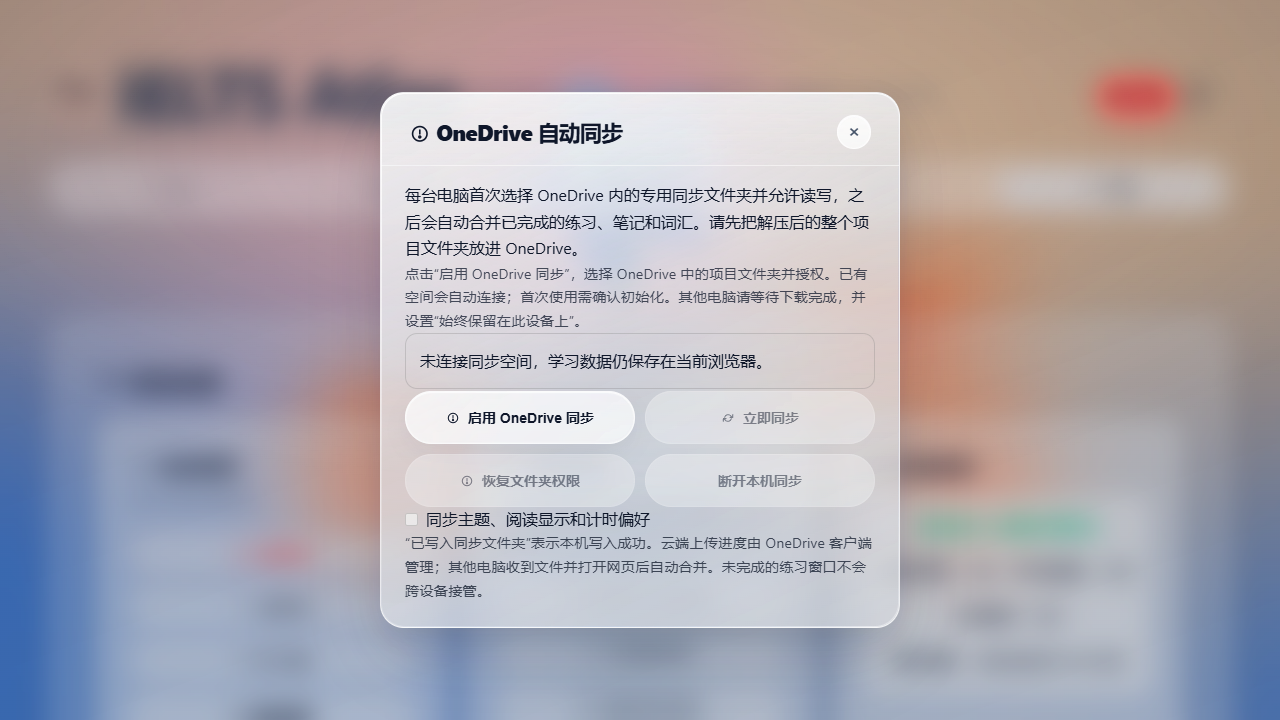
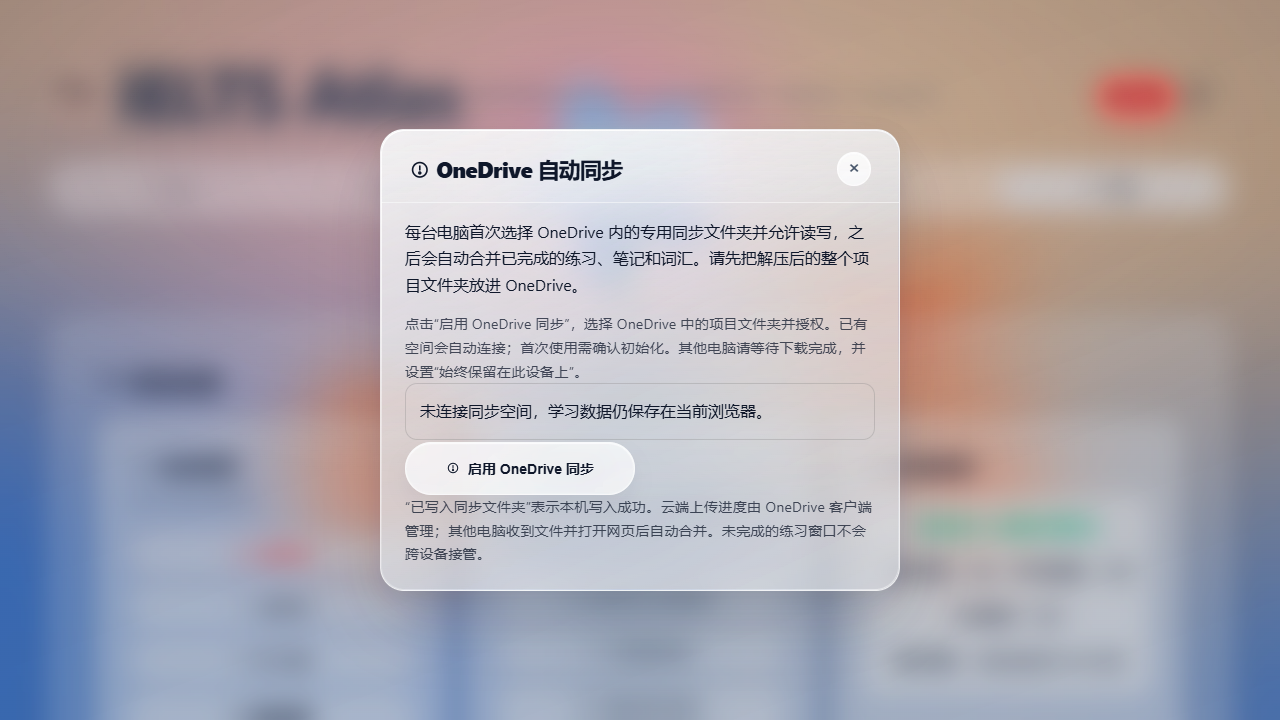
fix(sync): show recovery only when folder access needs renewal

Changed region(s): [[0.2812, 0.1222, 0.7188, 0.8861]]

diff --git a/developer/tests/e2e/folderSyncBackend.node.js b/developer/tests/e2e/folderSyncBackend.node.js
@@ -31,7 +31,9 @@ test('backend HTTP entry serves a working opt-in folder-sync UI and publishes lo
         const page = await context.newPage(); page.on('dialog', dialog => dialog.accept());
         await page.addInitScript(() => {
             // Substitute only the user chooser, using an isolated real directory handle.
+            window.__pickerCalls = 0;
             window.showDirectoryPicker = async () => {
+                    window.__pickerCalls++;
                     const dir = await navigator.storage.getDirectory();
                     for (const name of ['index.html', 'ONEDRIVE_SYNC.md']) await dir.getFileHandle(name, { create: true });
                     for (const name of ['js', 'css']) await dir.getDirectoryHandle(name, { create: true });
@@ -47,6 +49,10 @@ test('backend HTTP entry serves a working opt-in folder-sync UI and publishes lo
         await page.locator('button[data-view="settings"]').click();
         await page.locator('#folder-sync-entry-btn').click();
         assert(await page.locator('#folder-sync-modal').isVisible());
+        assert(await page.locator('#folder-sync-enable-btn').isVisible());
+        assert(!(await page.locator('#folder-sync-sync-btn').isVisible()));
+        assert(!(await page.locator('#folder-sync-disconnect-btn').isVisible()));
+        assert(!(await page.locator('#folder-sync-permission-btn').isVisible()), 'unbound browsers have no recovery action');
         assert.equal((await page.request.get(base + '/css/folder-sync.css')).status(), 200);
         if (process.env.ONEDRIVE_SYNC_SCREENSHOT) {
             await page.screenshot({ path: path.resolve(process.env.ONEDRIVE_SYNC_SCREENSHOT) });
@@ -56,6 +62,11 @@ test('backend HTTP entry serves a working opt-in folder-sync UI and publishes lo
             const status = FolderSyncService.getStatus();
             return status.enabled && status.permission === 'granted' && !status.busy && !status.pending;
         });
+        assert(!(await page.locator('#folder-sync-enable-btn').isVisible()));
+        assert(!(await page.locator('#folder-sync-permission-btn').isVisible()));
+        assert(!(await page.locator('#folder-sync-setup-guide').isVisible()));
+        assert((await page.locator('.folder-sync-status').textContent()).includes('自动同步已开启'));
+        assert(await page.locator('#folder-sync-preferences').isEnabled());
         const previousPublish = await page.evaluate(() => FolderSyncService.getStatus().lastPublishAt);
         await page.evaluate(() => AppData.practice.completeAttempt({ operationId: 'backend-folder-record', record: {
             id: 'backend-folder-record', type: 'reading', examId: 'test-exam', title: 'Synthetic folder-sync record',
@@ -77,6 +88,56 @@ test('backend HTTP entry serves a working opt-in folder-sync UI and publishes lo
             return found;
         });
         assert(published, 'a commit made on the backend-served page should publish without syncNow');
+        const originalSpace = await page.evaluate(async () => (await SyncFolderAdapter.binding()).spaceId);
+        await page.evaluate(async () => {
+            // Simulate browser permission loss only. Worker, stored binding, queue and file writes remain real.
+            window.__permission = 'prompt'; window.__permissionRequests = 0;
+            FileSystemDirectoryHandle.prototype.queryPermission = async () => window.__permission;
+            FileSystemDirectoryHandle.prototype.requestPermission = async () => {
+                window.__permissionRequests++;
+                return window.__grantRestore ? (window.__permission = 'granted') : 'denied';
+            };
+            await FolderSyncService.syncNow();
+            await AppData.practice.completeAttempt({ operationId: 'paused-record', record: {
+                id: 'paused-record', type: 'reading', examId: 'test-exam', title: 'Queued while paused',
+                totalQuestions: 1, correctAnswers: 1, answers: { 1: 'yes' }
+            } });
+            await FolderSyncService.syncNow();
+        });
+        assert(await page.locator('#folder-sync-permission-btn').isVisible());
+        assert((await page.locator('#folder-sync-permission-btn').textContent()).includes('恢复同步'));
+        assert(!(await page.locator('#folder-sync-enable-btn').isVisible()));
+        assert(!(await page.locator('#folder-sync-sync-btn').isEnabled()));
+        assert((await page.locator('.folder-sync-status').textContent()).includes('同步已暂停'));
+        assert((await page.locator('#folder-sync-banner-copy').textContent()).includes('恢复同步'));
+        const queued = await page.evaluate(() => AppData.folderSync.pending());
+        assert(queued.some(op => op.changes.some(change => change.key === 'practice/paused-record')));
+        await page.locator('#folder-sync-permission-btn').click();
+        await page.waitForFunction(() => window.__permissionRequests === 1 && !document.getElementById('folder-sync-permission-btn').disabled);
+        assert(await page.locator('#folder-sync-permission-btn').isVisible(), 'denial keeps recovery available');
+        assert.equal((await page.evaluate(() => AppData.folderSync.pending())).length, queued.length);
+        await page.evaluate(() => { window.__grantRestore = true; });
+        await page.locator('#folder-sync-permission-btn').click();
+        await page.waitForFunction(() => {
+            const status = FolderSyncService.getStatus();
+            return status.permission === 'granted' && !status.busy && !status.pending;
+        });
+        assert(!(await page.locator('#folder-sync-permission-btn').isVisible()));
+        assert((await page.locator('.folder-sync-status').textContent()).includes('自动同步已开启'));
+        assert(await page.locator('#folder-sync-sync-btn').isEnabled());
+        assert.equal(await page.locator('#folder-sync-banner').count(), 0);
+        assert.equal(await page.evaluate(() => window.__pickerCalls), 1, 'restore reuses the bound folder');
+        assert.equal(await page.evaluate(async () => (await SyncFolderAdapter.binding()).spaceId), originalSpace);
+        await page.locator('#folder-sync-disconnect-btn').click();
+        await page.waitForFunction(() => !FolderSyncService.getStatus().bound);
+        assert(await page.locator('#folder-sync-enable-btn').isVisible());
+        assert(await page.locator('#folder-sync-setup-guide').isVisible());
+        assert(!(await page.locator('#folder-sync-permission-btn').isVisible()));
+        assert(await page.evaluate(() => AppData.practice.get('paused-record')));
+        await page.locator('#folder-sync-enable-btn').click();
+        await page.waitForFunction(() => FolderSyncService.getStatus().bound && !FolderSyncService.getStatus().busy);
+        assert.equal(await page.evaluate(async () => (await SyncFolderAdapter.binding()).spaceId), originalSpace);
+        assert(!(await page.locator('#folder-sync-permission-btn').isVisible()));
         assert.equal((await page.request.get(base + '/user-data/workspace.json')).status(), 404);
     } finally {
         if (browser) await browser.close();

diff --git a/js/bundles/core-foundation.bundle.js b/js/bundles/core-foundation.bundle.js
@@ -7706,7 +7706,7 @@
     'use strict';
     if (!global.document || !global.FolderSyncService) return;
     const service = global.FolderSyncService, doc = global.document;
-    let modal = null, statusLine, conflictList, errorLine, preferences, versionSignature = '';
+    let modal = null, statusLine, conflictList, errorLine, preferences, setupGuide, versionSignature = '';
     const buttons = {};
     function element(tag, text, className) {
         const node = doc.createElement(tag);
@@ -7740,8 +7740,10 @@
         close.addEventListener('click', () => modal.classList.remove('show'));
         header.append(title, close);
         const body = element('div', '', 'theme-modal-body shui-secondary-modal__body folder-sync-body');
-        body.append(element('p', '每台电脑首次选择 OneDrive 内的专用同步文件夹并允许读写，之后会自动合并已完成的练习、笔记和词汇。请先把解压后的整个项目文件夹放进 OneDrive。'));
-        body.append(element('p', '点击“启用 OneDrive 同步”，选择 OneDrive 中的项目文件夹并授权。已有空间会自动连接；首次使用需确认初始化。其他电脑请等待下载完成，并设置“始终保留在此设备上”。', 'folder-sync-muted'));
+        setupGuide = element('div'); setupGuide.id = 'folder-sync-setup-guide';
+        setupGuide.append(element('p', '每台电脑首次选择 OneDrive 内的专用同步文件夹并允许读写，之后会自动合并已完成的练习、笔记和词汇。请先把解压后的整个项目文件夹放进 OneDrive。'));
+        setupGuide.append(element('p', '点击“启用 OneDrive 同步”，选择 OneDrive 中的项目文件夹并授权。已有空间会自动连接；首次使用需确认初始化。其他电脑请等待下载完成，并设置“始终保留在此设备上”。', 'folder-sync-muted'));
+        body.append(setupGuide);
         statusLine = element('p', '正在读取本机同步状态…', 'folder-sync-status');
         statusLine.setAttribute('role', 'status'); statusLine.setAttribute('aria-live', 'polite');
         body.append(statusLine);
@@ -7749,7 +7751,7 @@
         for (const [key, label, task] of [
             ['enable', '☁ 启用 OneDrive 同步', () => service.connect()],
             ['sync', '🔄 立即同步', () => service.syncNow()],
-            ['permission', '🔑 恢复文件夹权限', () => service.reauthorize()],
+            ['permission', '🔑 恢复同步', () => service.reauthorize()],
             ['disconnect', '断开本机同步', () => {
                 if (global.confirm('断开后保留本机记录和 OneDrive 文件，下次连接可继续同步。是否断开？')) return service.disconnect();
             }]
@@ -7779,9 +7781,9 @@
     function textStatus(status) {
         if (!status.supported) return '当前环境不支持自动文件夹同步。请使用桌面 Chrome / Edge；必要时通过固定 localhost 地址打开。';
         if (!status.enabled || !status.bound) return '未连接同步空间，学习数据仍保存在当前浏览器。';
-        if (status.permission !== 'granted') return '已连接 ' + status.directoryName + '，需要点击“恢复文件夹权限”才能继续读写。';
+        if (status.permission !== 'granted') return '同步已暂停，请点击“恢复同步”并重新授权。学习记录仍保存在本机。';
         if (status.busy) return '正在检查并合并同步文件…';
-        return '已连接 ' + status.directoryName + ' · 待发送 ' + status.pending + ' 条 · 待处理冲突 ' + status.conflicts.length
+        return '自动同步已开启 · ' + status.directoryName + ' · 待发送 ' + status.pending + ' 条 · 待处理冲突 ' + status.conflicts.length
             + ' 项\n最近写入文件夹：' + formatDate(status.lastPublishAt) + '\n最近接收：' + formatDate(status.lastReceiveAt);
     }
     function banner(status) {
@@ -7797,22 +7799,30 @@
             const open = element('button', '打开同步面板', 'btn app-global-banner__btn'); open.type = 'button'; open.addEventListener('click', openModal);
             node.append(copy, open); stack.append(node);
         }
-        doc.getElementById('folder-sync-banner-copy').textContent = status.permission !== 'granted' ? 'OneDrive 同步需要重新授权文件夹'
+        doc.getElementById('folder-sync-banner-copy').textContent = status.permission !== 'granted' ? 'OneDrive 同步已暂停，请打开同步面板恢复同步'
             : status.blocked.length ? 'OneDrive 同步有批量删除请求需要确认'
                 : status.conflicts.length ? 'OneDrive 同步有 ' + status.conflicts.length + ' 项内容需要选择版本' : 'OneDrive 同步遇到问题，本机记录仍保留';
     }
     function render(status) {
         const entry = doc.getElementById('folder-sync-entry-btn');
         if (entry) entry.textContent = !status.enabled || !status.bound ? '☁ OneDrive 自动同步'
-            : status.permission !== 'granted' ? '☁ OneDrive 同步 · 需授权'
-                : status.conflicts.length ? '☁ OneDrive 同步 · 有冲突' : status.pending ? '☁ OneDrive 同步 · 待发送' : '☁ OneDrive 同步 · 已连接';
+            : status.permission !== 'granted' ? '☁ OneDrive 同步 · 已暂停'
+                : status.conflicts.length ? '☁ OneDrive 同步 · 有冲突' : status.pending ? '☁ OneDrive 同步 · 待发送' : '☁ OneDrive 同步 · 已开启';
         banner(status);
         if (!modal) return;
         statusLine.textContent = textStatus(status);
         errorLine.textContent = status.errors.map(error => (error.path ? error.path + '：' : '') + error.message).slice(0, 5).join('\n');
+        const connected = status.enabled && status.bound;
+        const needsPermission = connected && status.permission !== 'granted';
+        setupGuide.hidden = connected;
+        buttons.enable.hidden = connected;
+        buttons.sync.hidden = buttons.disconnect.hidden = !connected;
+        preferences.parentElement.hidden = !connected;
+        buttons.permission.hidden = !needsPermission;
         buttons.enable.disabled = !status.supported || status.busy;
-        buttons.sync.disabled = buttons.disconnect.disabled = !status.enabled || !status.bound || status.busy;
-        buttons.permission.disabled = !status.bound || status.permission === 'granted' || status.busy;
+        buttons.sync.disabled = !connected || needsPermission || !status.supported || status.busy;
+        buttons.disconnect.disabled = !connected || status.busy;
+        buttons.permission.disabled = !status.supported || status.busy;
         preferences.disabled = !status.enabled || !status.bound || status.busy;
         preferences.checked = status.preferences === true;
         const signature = JSON.stringify([status.conflicts.map(item => [item.key, item.versions.map(version => version.id)]), status.blocked]);

diff --git a/js/presentation/syncPanel.js b/js/presentation/syncPanel.js
@@ -2,7 +2,7 @@
     'use strict';
     if (!global.document || !global.FolderSyncService) return;
     const service = global.FolderSyncService, doc = global.document;
-    let modal = null, statusLine, conflictList, errorLine, preferences, versionSignature = '';
+    let modal = null, statusLine, conflictList, errorLine, preferences, setupGuide, versionSignature = '';
     const buttons = {};
     function element(tag, text, className) {
         const node = doc.createElement(tag);
@@ -36,8 +36,10 @@
         close.addEventListener('click', () => modal.classList.remove('show'));
         header.append(title, close);
         const body = element('div', '', 'theme-modal-body shui-secondary-modal__body folder-sync-body');
-        body.append(element('p', '每台电脑首次选择 OneDrive 内的专用同步文件夹并允许读写，之后会自动合并已完成的练习、笔记和词汇。请先把解压后的整个项目文件夹放进 OneDrive。'));
-        body.append(element('p', '点击“启用 OneDrive 同步”，选择 OneDrive 中的项目文件夹并授权。已有空间会自动连接；首次使用需确认初始化。其他电脑请等待下载完成，并设置“始终保留在此设备上”。', 'folder-sync-muted'));
+        setupGuide = element('div'); setupGuide.id = 'folder-sync-setup-guide';
+        setupGuide.append(element('p', '每台电脑首次选择 OneDrive 内的专用同步文件夹并允许读写，之后会自动合并已完成的练习、笔记和词汇。请先把解压后的整个项目文件夹放进 OneDrive。'));
+        setupGuide.append(element('p', '点击“启用 OneDrive 同步”，选择 OneDrive 中的项目文件夹并授权。已有空间会自动连接；首次使用需确认初始化。其他电脑请等待下载完成，并设置“始终保留在此设备上”。', 'folder-sync-muted'));
+        body.append(setupGuide);
         statusLine = element('p', '正在读取本机同步状态…', 'folder-sync-status');
         statusLine.setAttribute('role', 'status'); statusLine.setAttribute('aria-live', 'polite');
         body.append(statusLine);
@@ -45,7 +47,7 @@
         for (const [key, label, task] of [
             ['enable', '☁ 启用 OneDrive 同步', () => service.connect()],
             ['sync', '🔄 立即同步', () => service.syncNow()],
-            ['permission', '🔑 恢复文件夹权限', () => service.reauthorize()],
+            ['permission', '🔑 恢复同步', () => service.reauthorize()],
             ['disconnect', '断开本机同步', () => {
                 if (global.confirm('断开后保留本机记录和 OneDrive 文件，下次连接可继续同步。是否断开？')) return service.disconnect();
             }]
@@ -75,9 +77,9 @@
     function textStatus(status) {
         if (!status.supported) return '当前环境不支持自动文件夹同步。请使用桌面 Chrome / Edge；必要时通过固定 localhost 地址打开。';
         if (!status.enabled || !status.bound) return '未连接同步空间，学习数据仍保存在当前浏览器。';
-        if (status.permission !== 'granted') return '已连接 ' + status.directoryName + '，需要点击“恢复文件夹权限”才能继续读写。';
+        if (status.permission !== 'granted') return '同步已暂停，请点击“恢复同步”并重新授权。学习记录仍保存在本机。';
         if (status.busy) return '正在检查并合并同步文件…';
-        return '已连接 ' + status.directoryName + ' · 待发送 ' + status.pending + ' 条 · 待处理冲突 ' + status.conflicts.length
+        return '自动同步已开启 · ' + status.directoryName + ' · 待发送 ' + status.pending + ' 条 · 待处理冲突 ' + status.conflicts.length
             + ' 项\n最近写入文件夹：' + formatDate(status.lastPublishAt) + '\n最近接收：' + formatDate(status.lastReceiveAt);
     }
     function banner(status) {
@@ -93,22 +95,30 @@
             const open = element('button', '打开同步面板', 'btn app-global-banner__btn'); open.type = 'button'; open.addEventListener('click', openModal);
             node.append(copy, open); stack.append(node);
         }
-        doc.getElementById('folder-sync-banner-copy').textContent = status.permission !== 'granted' ? 'OneDrive 同步需要重新授权文件夹'
+        doc.getElementById('folder-sync-banner-copy').textContent = status.permission !== 'granted' ? 'OneDrive 同步已暂停，请打开同步面板恢复同步'
             : status.blocked.length ? 'OneDrive 同步有批量删除请求需要确认'
                 : status.conflicts.length ? 'OneDrive 同步有 ' + status.conflicts.length + ' 项内容需要选择版本' : 'OneDrive 同步遇到问题，本机记录仍保留';
     }
     function render(status) {
         const entry = doc.getElementById('folder-sync-entry-btn');
         if (entry) entry.textContent = !status.enabled || !status.bound ? '☁ OneDrive 自动同步'
-            : status.permission !== 'granted' ? '☁ OneDrive 同步 · 需授权'
-                : status.conflicts.length ? '☁ OneDrive 同步 · 有冲突' : status.pending ? '☁ OneDrive 同步 · 待发送' : '☁ OneDrive 同步 · 已连接';
+            : status.permission !== 'granted' ? '☁ OneDrive 同步 · 已暂停'
+                : status.conflicts.length ? '☁ OneDrive 同步 · 有冲突' : status.pending ? '☁ OneDrive 同步 · 待发送' : '☁ OneDrive 同步 · 已开启';
         banner(status);
         if (!modal) return;
         statusLine.textContent = textStatus(status);
         errorLine.textContent = status.errors.map(error => (error.path ? error.path + '：' : '') + error.message).slice(0, 5).join('\n');
+        const connected = status.enabled && status.bound;
+        const needsPermission = connected && status.permission !== 'granted';
+        setupGuide.hidden = connected;
+        buttons.enable.hidden = connected;
+        buttons.sync.hidden = buttons.disconnect.hidden = !connected;
+        preferences.parentElement.hidden = !connected;
+        buttons.permission.hidden = !needsPermission;
         buttons.enable.disabled = !status.supported || status.busy;
-        buttons.sync.disabled = buttons.disconnect.disabled = !status.enabled || !status.bound || status.busy;
-        buttons.permission.disabled = !status.bound || status.permission === 'granted' || status.busy;
+        buttons.sync.disabled = !connected || needsPermission || !status.supported || status.busy;
+        buttons.disconnect.disabled = !connected || status.busy;
+        buttons.permission.disabled = !status.supported || status.busy;
         preferences.disabled = !status.enabled || !status.bound || status.busy;
         preferences.checked = status.preferences === true;
         const signature = JSON.stringify([status.conflicts.map(item => [item.key, item.versions.map(version => version.id)]), status.blocked]);

diff --git a/css/folder-sync.css b/css/folder-sync.css
@@ -9,3 +9,5 @@
 .folder-sync-conflict details { padding: 10px 0; }
 .folder-sync-conflict summary { cursor: pointer; }
 .folder-sync-conflict pre { max-height: 240px; overflow: auto; white-space: pre-wrap; overflow-wrap: anywhere; font-size: .8rem; }
+.folder-sync-modal [hidden] { display: none !important; }
+#folder-sync-setup-guide { display: grid; gap: 14px; }

diff --git a/developer/doc/OneDrive-Sync-Verification.md b/developer/doc/OneDrive-Sync-Verification.md
@@ -46,6 +46,14 @@ The five added browser regression tests cover:
 
 Permission restoration is exercised through reauthorize with an origin-private handle. Real permission prompts and OneDrive transfer remain manual cases. The panel screenshot was regenerated from the production backend-served page. Evidence is saved locally in ignored developer/doc/onedrive-sync-review-{all,focused,backend,http,build,bundle-check}.log files.
 
+## Permission recovery interaction update
+
+The panel now shows only **启用 OneDrive 同步** before setup. Connected, authorized browsers see **自动同步已开启** with sync/disconnect/preferences controls and no setup/recovery button. When permission expires, **同步已暂停** and **恢复同步** appear; immediate sync is disabled until access is restored. Disconnect returns to setup. Conflict and bulk-deletion controls remain available.
+
+The production backend browser test now verifies these real rendered states, denies one simulated browser permission request (queue retained), grants the next request (queue drains automatically), verifies that recovery does not reopen the directory picker or change the space ID, and disconnects/reconnects without losing the practice record. Only the browser permission results and directory chooser are substituted; production service, IndexedDB and file writing code execute unchanged. The initial panel screenshot was regenerated and visually inspected.
+
+Rerun commands use the existing dependency lockfiles: frontend suite (121 tests including 21 sync tests), focused sync, backend (5 tests), production HTTP browser integration (1 extended test), bundle build/check and git diff check. Local evidence is saved in ignored developer/doc/onedrive-sync-ui-*.log files. No dependency, storage protocol, data-write barrier or backend API changes are included in this UI update.
+
 ## Pending external validation
 
 Real OneDrive upload/download, two physical computers, Files On-Demand and actual directory reauthorization still require [manual acceptance](OneDrive-Sync-Manual-Test.md). No personal browser database or OneDrive account was used.

diff --git a/ONEDRIVE_SYNC.md b/ONEDRIVE_SYNC.md
@@ -19,7 +19,7 @@ This feature is built on `feature/multi-device-easy-deploy`. It adds an opt-in d
 
 An existing `user-data` directory without a valid marker, empty/truncated markers and incompatible versions stop connection without creating a replacement. A project missing required root files cannot be initialized. If a sync directory arrives during confirmation, it is inspected again. A browser that has already used a space cannot initialize a different one through this entry. The browser cannot inspect OneDrive cloud status: if the entire sync directory has not arrived, cancel the initialization prompt and wait for the client. Never manually create or edit internal JSON files.
 
-Every computer needs an initial grant. If permission expires, use **恢复文件夹权限**. When direct `file://` directory access is unavailable, use a fixed localhost address. Browser, origin, protocol and port changes can select a different local database; export from the old entry and use incremental import before connecting the new entry.
+Every computer needs an initial grant. When connected and authorized, the panel shows **自动同步已开启** and hides setup / recovery actions. If permission expires, it shows **同步已暂停** and the **恢复同步** action; click it to authorize the saved folder again. The recovery action is hidden before setup and after permission is restored. A denied request leaves pending learning records queued locally. The browser controls permission persistence; authorization cannot be bypassed or guaranteed forever. When direct `file://` directory access is unavailable, use a fixed localhost address. Browser, origin, protocol and port changes can select a different local database; export from the old entry and use incremental import before connecting the new entry.
 
 Completed commits schedule publication automatically. A visible page checks approximately every 15 seconds, and returning to the page also schedules a check. **立即同步** requests a check now. OneDrive transfer latency is separate; closed pages receive changes the next time they open.
 

diff --git a/developer/doc/OneDrive-Sync-Manual-Test.md b/developer/doc/OneDrive-Sync-Manual-Test.md
@@ -15,7 +15,7 @@ On A and B, use Settings → Data management → OneDrive 自动同步 → **启
 | 1 | A completes a synthetic practice; wait for local write and OneDrive transfer; open B | B has the full summary, answers and annotations once; statistics are not duplicated | Pending |
 | 2 | B completes another attempt, including a second attempt of the same article | Both attempts eventually appear on both devices | Pending |
 | 3 | Both work offline, then reconnect | Independent additions merge; pending queues drain when folder permission and transport are available | Pending |
-| 4 | Make a local commit without folder permission, close/reopen, then reauthorize | Queued data survives and publishes after reauthorization | Pending |
+| 4 | Make a local commit without folder permission, close/reopen, then reauthorize | When permission expires, 恢复同步 appears with 同步已暂停. Denial retains the queue; granting permission resumes publication in the same space and hides recovery again | Pending |
 | 5 | From a shared baseline, edit the same annotation offline on both devices | Both alternatives are visible; selecting one converges on the other device | Pending |
 | 6 | One device deletes while the other edits the same attempt offline | Delete/edit alternatives survive; an ordinary causal deletion is not undone by old log replay | Pending |
 | 7 | A sends one operation deleting at least 10 attempts and at least half of B's attempts | B waits for explicit confirmation before applying that operation | Pending |
